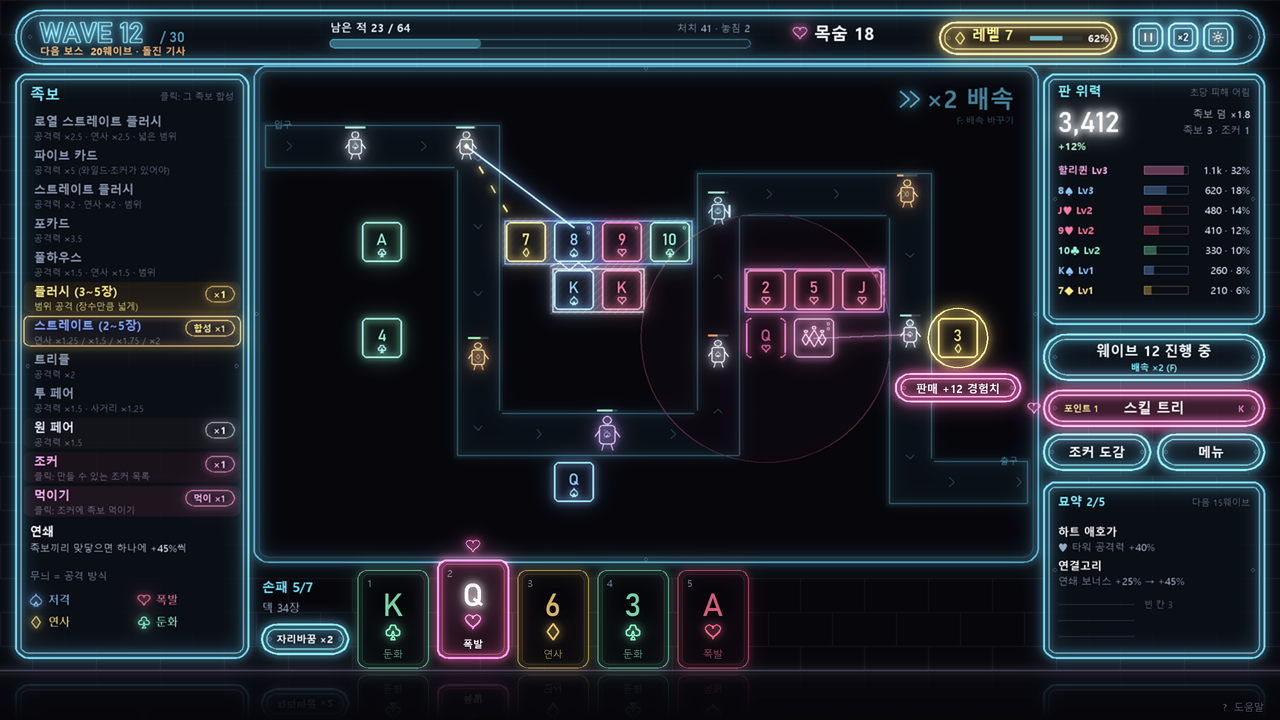
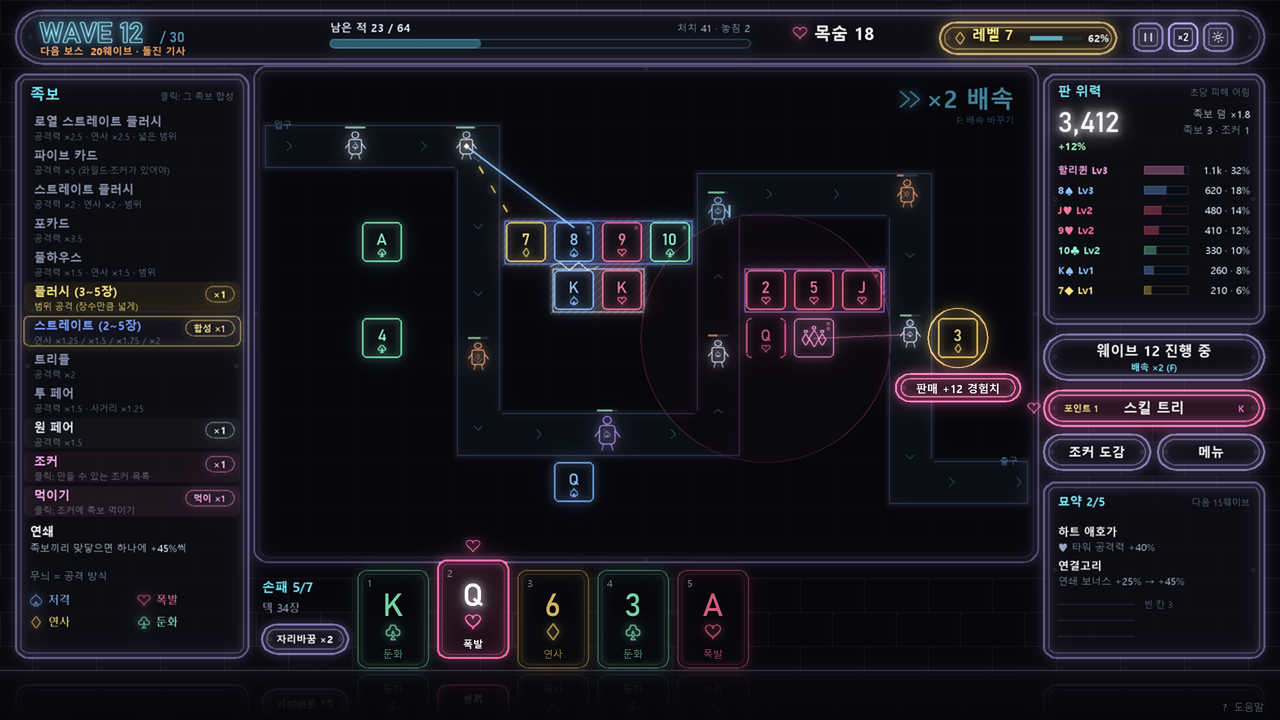
In-game mockups: lavender frames instead of cyan, neon 30% softer (D-260)

diff --git a/tools/neon/ingame_mock.py b/tools/neon/ingame_mock.py
@@ -34,6 +34,9 @@ BOLT = (138, 148, 166)
 GREEN, RED, MINT = (156, 255, 176), (255, 106, 106), (106, 255, 200)
 JPINK = (255, 154, 213)
 BR = (60, 48, 58)
+# D-260: 테두리는 하늘(무늬 ♠ 색과 겹침) 대신 연보라, 네온 선 밝기 · 빛번짐은 30% 죽인다 (정신없음)
+FRAME = (168, 150, 225)
+NEON_K = 0.7
 GRID = (120, 140, 180)
 SUITC = {'spade': (127, 184, 255), 'heart': (255, 106, 138), 'diamond': (255, 217, 106), 'club': (138, 255, 196)}
 SYM = {'spade': '♠', 'heart': '♥', 'diamond': '◆', 'club': '♣'}
@@ -114,11 +117,13 @@ class Bar:
         gd, cd = ImageDraw.Draw(glow), ImageDraw.Draw(core)
         for (pts, c, wd, b, g, wc) in self.lines:
             P = [(px * S, py * S) for px, py in pts]
-            if g and b > 0.25: gd.line(P, fill=dim(c, b), width=max(1, int(wd * S * 4)))
+            b = b * NEON_K if b > 0.25 else b
+            if g and b > 0.25 * NEON_K: gd.line(P, fill=dim(c, b), width=max(1, int(wd * S * 4)))
             cd.line(P, fill=dim(c, max(0.16, b)), width=max(1, int(wd * S)), joint='curve')
         for (pts, c, wd, b, g, wc) in self.lines:  # 켜진 튜브 가운데 흰 심
             if wc and b > 0.5:
-                cd.line([(px * S, py * S) for px, py in pts], fill=tuple(min(255, int(v * 0.45 + 255 * 0.55 * b)) for v in c), width=max(1, int(wd * S * 0.4)), joint='curve')
+                bb = b * NEON_K
+                cd.line([(px * S, py * S) for px, py in pts], fill=tuple(min(255, int((v * 0.45 + 255 * 0.55 * b) * bb)) for v in c), width=max(1, int(wd * S * 0.4)), joint='curve')
         for (x, y, s, c, px, anchor, fp, b, g, hollow) in self.texts:
             f = font(fp, px)
             tw = max(2, int(px * S * 0.055))
@@ -135,7 +140,7 @@ class Bar:
         for (x, y, r) in self.dots:
             gd.ellipse([(x - r * 3) * S, (y - r * 3) * S, (x + r * 3) * S, (y + r * 3) * S], fill=(255, 220, 150))
             cd.ellipse([(x - r) * S, (y - r) * S, (x + r) * S, (y + r) * S], fill=WHITE)
-        gk = self.gk
+        gk = self.gk * NEON_K
         img = ImageChops.add(img, glow.filter(ImageFilter.GaussianBlur(10 * S)).point(lambda v: int(v * 0.5 * gk)))
         img = ImageChops.add(img, glow.filter(ImageFilter.GaussianBlur(3 * S)).point(lambda v: int(v * 0.45 * gk)))
         img = ImageChops.add(img, core)
@@ -161,6 +166,7 @@ def reflect(img, box, floor_y, k=0.16):
 def tube(M, x, y, w, h, r, c, on=False, b=None, wd=None, fill=True):
     """네온 간판 테두리 (사용자 요청, title-front/ingame_B_buttons.png): 바깥 튜브 + 5px 안쪽 튜브, 같은 색, 둘 다 켜져
     빛번짐 + 흰 심. 안 고른 것도 0.8 밝기로 켜져 있고, 고른 것(on)은 더 밝고 굵다. 양 끝 안쪽에 작은 회색 볼트"""
+    if c == CYAN: c = FRAME  # 테두리 색 (D-260)
     bo = b if b is not None else (1.0 if on else 0.8)
     bi = bo * 0.85
     if fill:
@@ -321,7 +327,7 @@ def soldier(M, x, y, kind, hp, s=1.0):
     M.ln([(x - bw / 2, by), (x - bw / 2 + bw * hp, by)], GREEN if hp > 0.5 else ORANGE if hp > 0.25 else RED, 2.0, 0.9, glow=False)
 
 
-def board(M, FX, FY, CS, frame_c=CYAN, frame_b=0.55, show_speed=False):
+def board(M, FX, FY, CS, frame_c=FRAME, frame_b=0.55, show_speed=False):
     BW, BH = 16 * CS, 10 * CS
     cen = lambda c: (FX + (c[0] + 0.5) * CS, FY + (c[1] + 0.5) * CS)
     M.fill_rr(FX - 8, FY - 8, BW + 16, BH + 16, 14, BG, 0.92, layer=0)
@@ -335,7 +341,7 @@ def board(M, FX, FY, CS, frame_c=CYAN, frame_b=0.55, show_speed=False):
     # 적 길: 옅은 채움 + 벽 + 방향 꺾쇠
     pc = path_cells()
     for (x, y) in pc: M.fill([(FX + x * CS, FY + y * CS), (FX + (x + 1) * CS, FY + y * CS), (FX + (x + 1) * CS, FY + (y + 1) * CS), (FX + x * CS, FY + (y + 1) * CS)], CYAN, 0.045, layer=1)
-    for sg in outline_segs(pc, FX, FY, CS, 3): M.ln(sg, CYAN, 1.0, 0.32)
+    for sg in outline_segs(pc, FX, FY, CS, 3): M.ln(sg, FRAME, 1.0, 0.32)
     poly = [(FX + (x + 0.5) * CS, FY + (y + 0.5) * CS) for x, y in PATH_WP]
     poly[0] = (FX - 2, poly[0][1]); poly[-1] = (FX + BW + 2, poly[-1][1])
     Ls = [0.0]
@@ -659,7 +665,7 @@ def mock_B():
         suit_shape(M, k, xx, 576, 5.5, None, 1.2, 0.7)
         M.t(xx + 9, 580, ATK[k], SUITC[k], 10)
     # 판
-    board(M, FX, FY, CS, frame_c=CYAN, frame_b=0.5)
+    board(M, FX, FY, CS, frame_c=FRAME, frame_b=0.5)
     # 오른쪽 열
     RX, PW = 1042, 222
     tube(M, RX, 104, PW, 228, 12, CYAN, b=0.6)
@@ -773,7 +779,7 @@ def mock_C():
         suit_shape(M, k, xx, y + 34, 5.5, None, 1.2, 0.7)
         M.t(xx + 9, y + 38, ATK[k], SUITC[k], 10)
     # 판 (크게)
-    cen = board(M, FX, FY, CS, frame_c=CYAN, frame_b=0.6)
+    cen = board(M, FX, FY, CS, frame_c=FRAME, frame_b=0.6)
     # 오른쪽 좁은 열
     RX, PW = 1072, 192
     tube(M, RX, FY, PW, 168, 12, CYAN, b=0.6)

diff --git a/docs/05-decision-log.md b/docs/05-decision-log.md
@@ -263,3 +263,4 @@
 | D-257 | 2026-11-15 | 글이 많은 화면은 작은 글자(26px 미만)에 빛번짐을 넣지 않는다: 글자는 깨끗한 색 글씨, 빛번짐은 틀 · 버튼 튜브 · 큰 제목에만. 전체 빛번짐도 0.75로 (Sign.small_glow, 잠금 해제 시안에 적용). 언리얼로 옮길 때도 같은 규칙 | 사용자: 네온이 너무 강해 글 가독성이 떨어진다 | — |
 | D-258 | 2026-11-15 | 잠금 해제 시안 C 에 마우스 오버 툴팁: 속이 찬 어두운 판 + 금색 두 겹 튜브 틀, 무늬 아이콘 · 이름 · 설명 · 보상 안내 · 가격 · '클릭해서 열기'. 아래 띠의 설명 · 열기 버튼은 빼고 '줄에 마우스를 올리면 설명 · 클릭하면 칩으로 연다' 안내만 | 사용자: C 에서 마우스 오버하면 툴팁이 보여야 | 아래 띠 설명 |
 | D-259 | 2026-11-15 | 인게임 시안 3종 (대문 B 분위기: 흐린 벽돌 벽, 젖은 바닥 반사, 불 들어온 두 겹 튜브 버튼, 작은 글자 빛번짐 없음): A 바 테이블(지금 좌표 그대로, 판 = 두 겹 틀 테이블, 위 HUD 한 줄 튜브, 손패가 바닥선 위에 서서 반사), B 걸린 간판(HUD 를 천장에 매단 간판들: WAVE · 남은 적 전구 · 목숨 하트 · 레벨, 족보 = 금색 메뉴판, 묘약 = 선반 위 병), C 판이 주인공(칸 52, 족보는 접힌 튜브 줄 · 올린 줄만 펼쳐 효과, 오른쪽 둥근 아이콘 버튼, 조커 오버 툴팁) (tools/neon/ingame_mock.py, 서브에이전트) | 사용자: 인게임도 비슷한 느낌으로, 서브에이전트로 | — |
+| D-260 | 2026-11-15 | 인게임 시안의 테두리 색을 하늘 → 연보라(#a896e1)로: 하늘은 ♠ 무늬 색과 겹쳐 판 위 카드와 섞였다. 네온 선 밝기 · 흰 심 · 빛번짐을 모두 30% 낮춤(NEON_K 0.7). 글자 밝기는 그대로. 고른 것(분홍) · 무늬 색 · 금색 강조는 그대로 | 사용자: 테두리 네온 색 바꾸고 30% 죽여, 정신없다 | 하늘 테두리 (D-259) |
